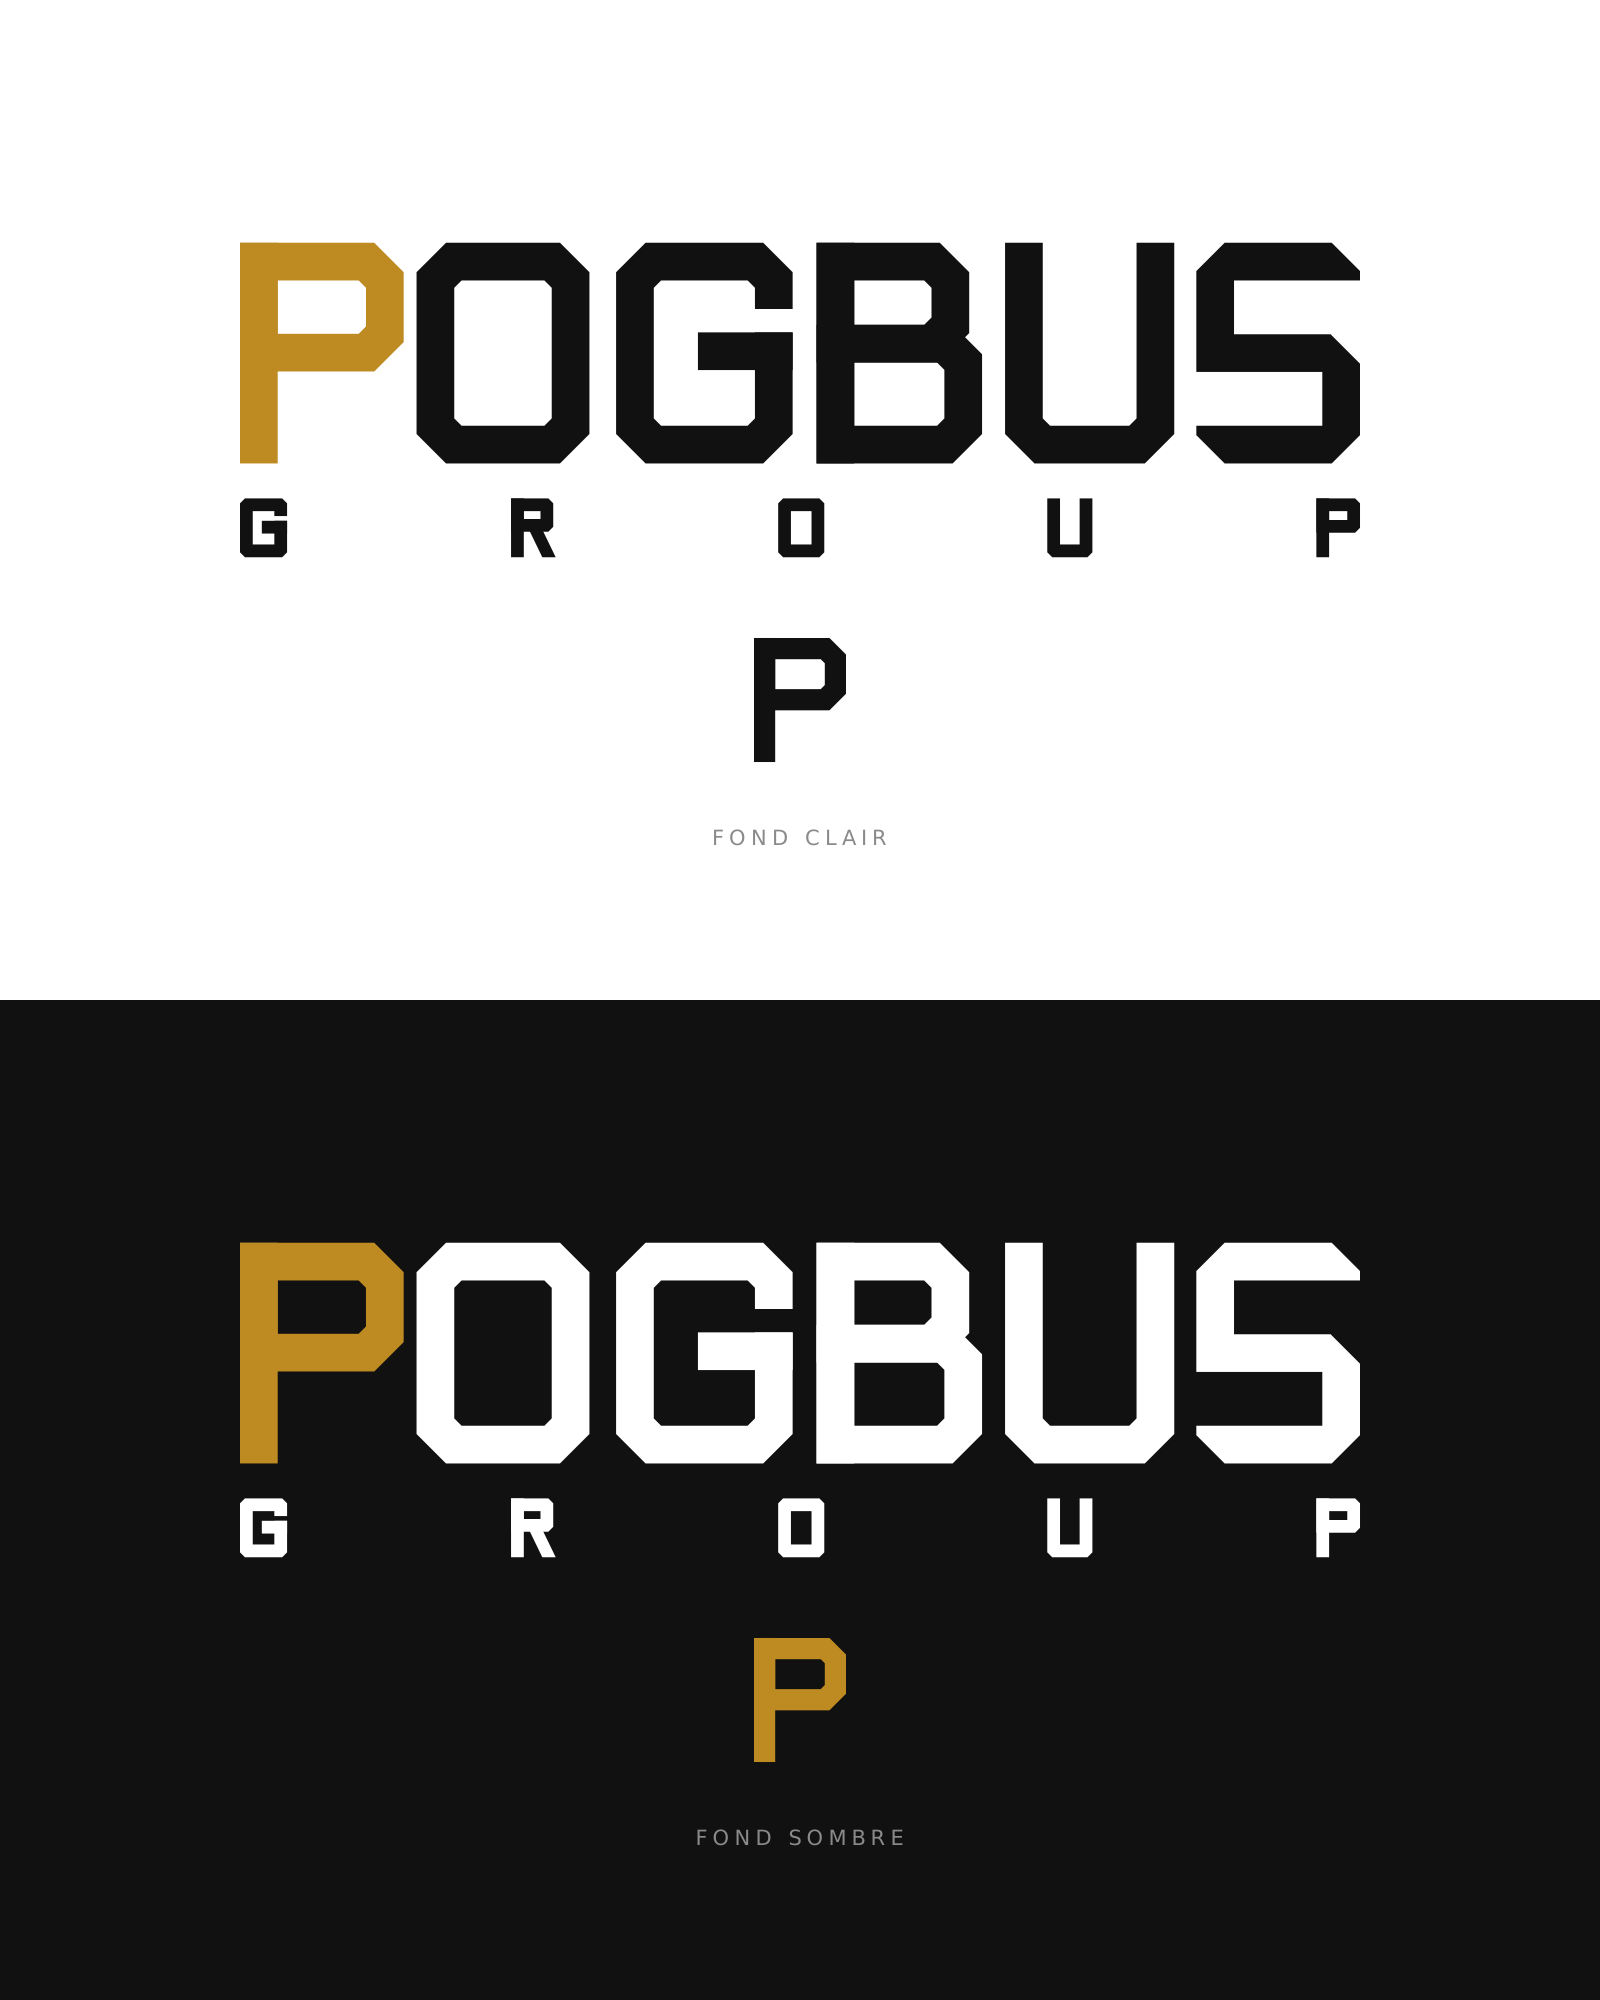
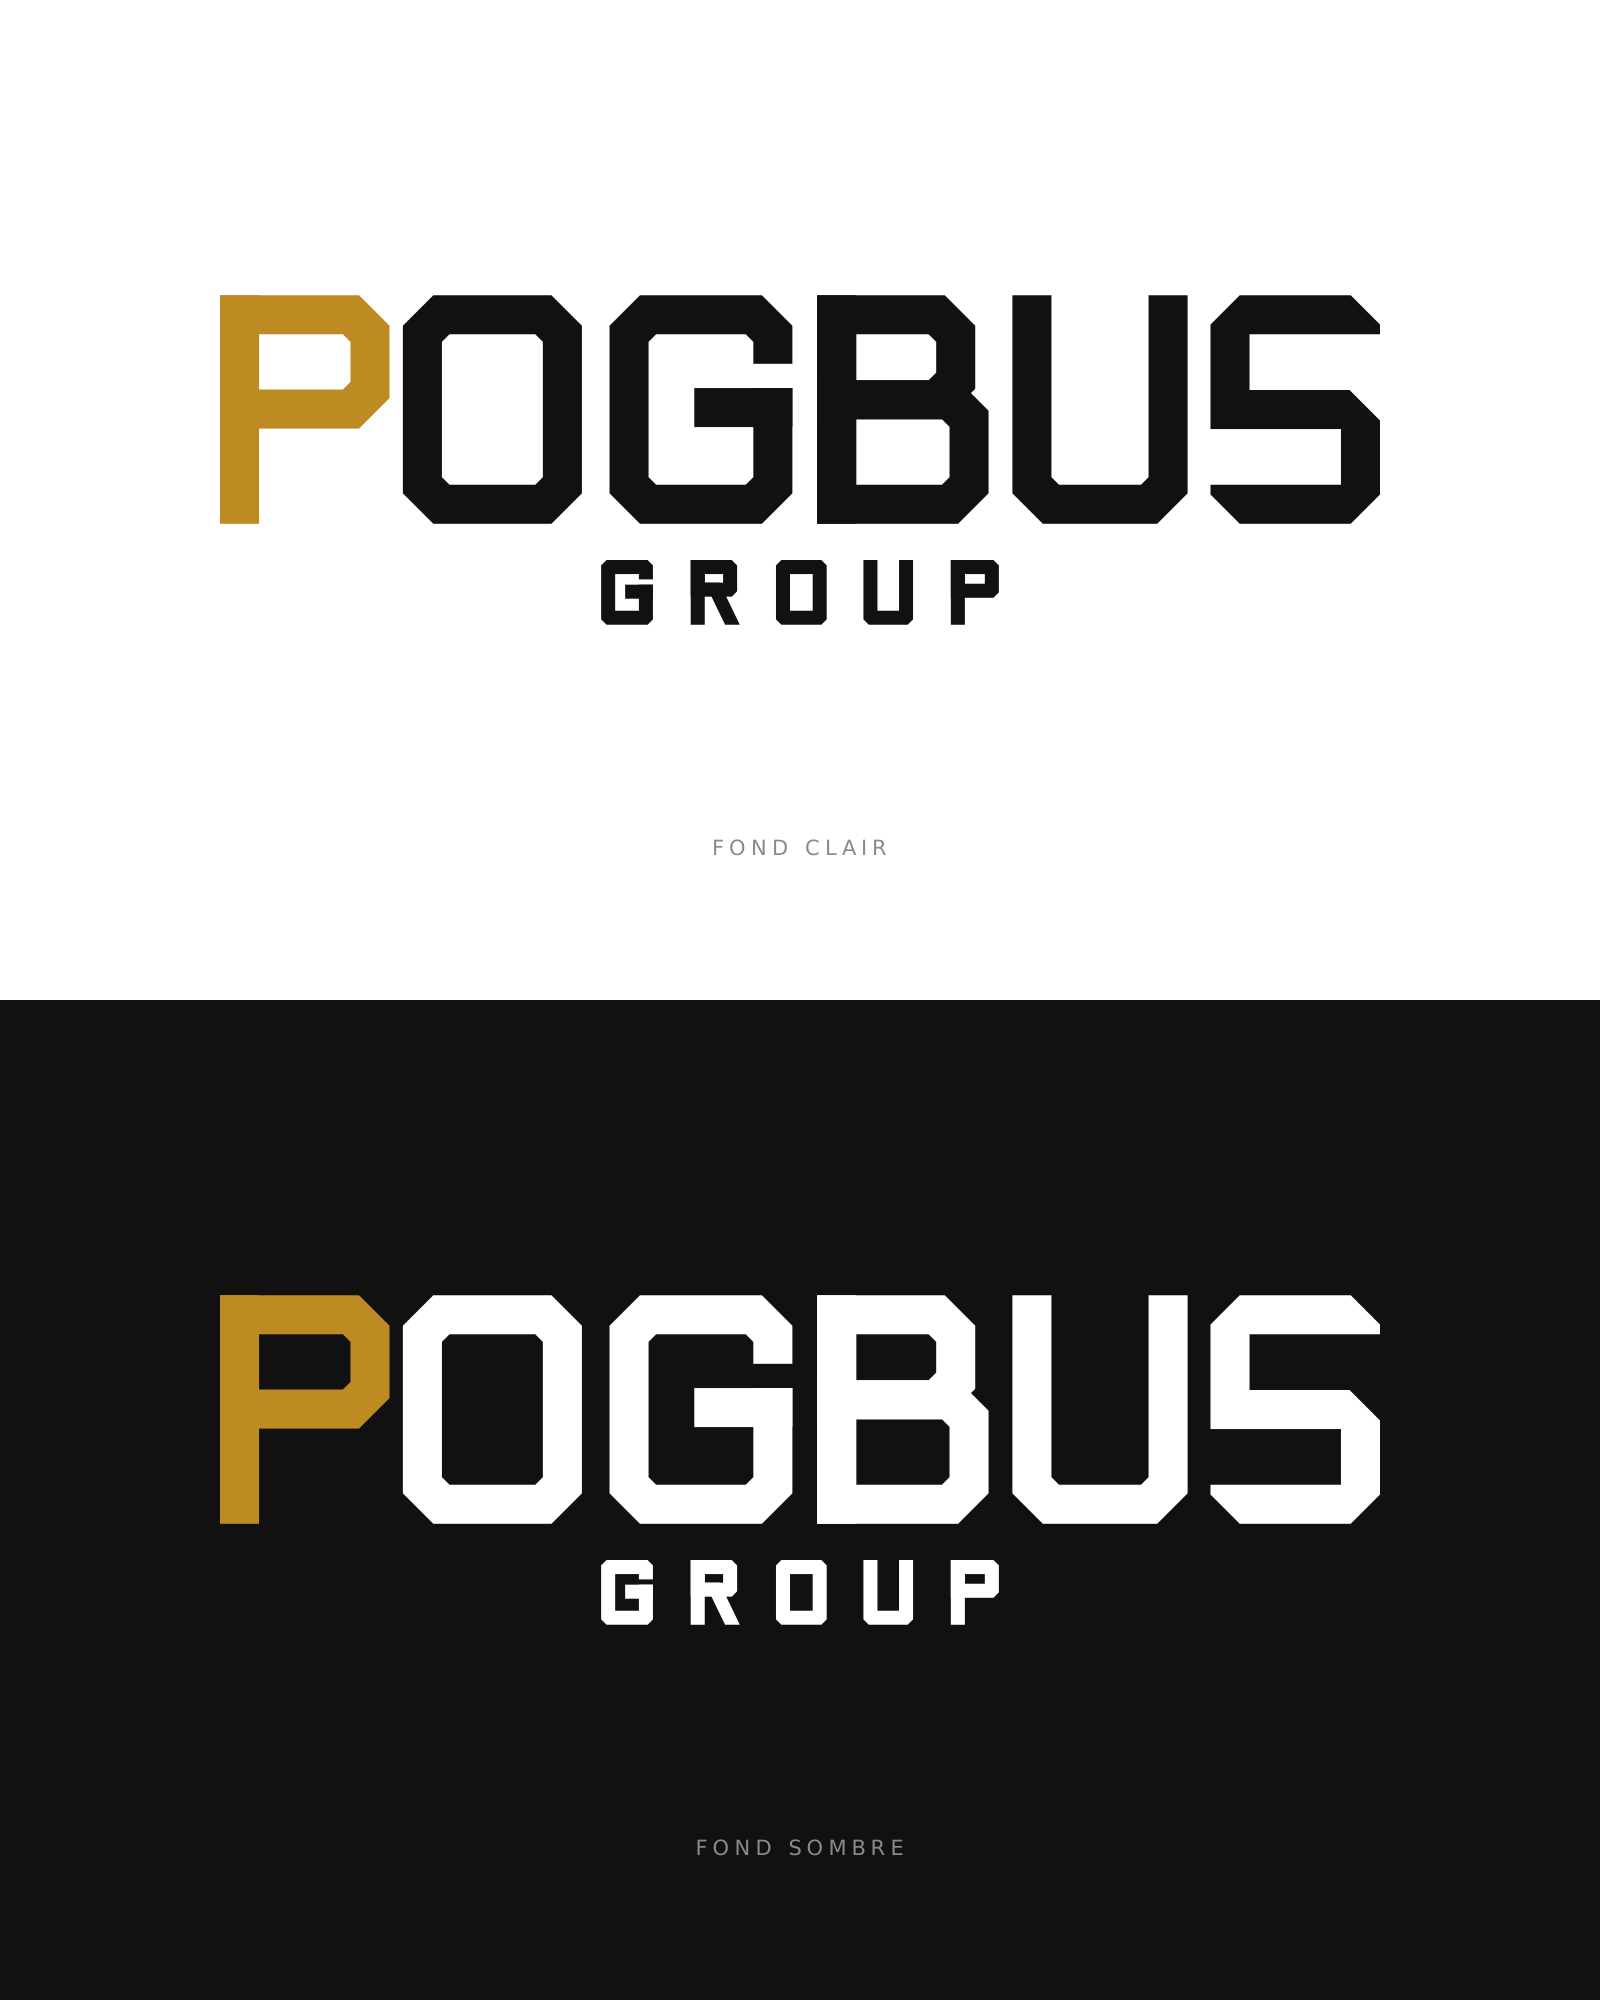
POGBUS GROUP : GROUP resserré et centré, P isolé retiré de la planche
Retour client sur la première version : le mot GROUP était étiré sur
toute la largeur de POGBUS, ce qui le rendait mou et illisible en petit.

- interlettrage de GROUP fixé à 7 modules au lieu d'un calcul qui
  l'étalait sur la largeur du mot ; hauteur portée de 3,2 à 3,4 modules
  pour compenser la perte de masse
- bloc GROUP centré sous POGBUS au lieu d'être calé à gauche
- le symbole isolé est retiré de la planche de présentation ; les
  fichiers du symbole seul restent livrés pour l'avatar et le favicon

Vérifié en image : le logo complet reste lisible jusqu'à 70 px de large,
contre une bouillie à la même taille avant le resserrement.

Claude-Session: https://claude.ai/code/session_01X8pXWXamyLubBoXiHNJevR

Changed region(s): [[0.125, 0.62, 0.875, 0.93], [0.125, 0.124, 0.875, 0.434]]

diff --git a/pogbus/src/final.py b/pogbus/src/final.py
@@ -16,7 +16,7 @@ NOIR = "#111111"
 BLANC = "#FFFFFF"
 
 S_MOT, C_MOT, APPRO = 2.05, 1.60, 1.45
-CAP_BASE, ECART_BASE = 3.2, 1.9
+CAP_BASE, ECART_BASE, APPRO_BASE = 3.4, 1.9, 7.0
 
 
 def _lettre(ch, x, couleur, accent=None):
@@ -47,12 +47,12 @@ def logo(couleur=NOIR, accent=OR, baseline=True):
             x += w
     larg, haut = x, H
     if baseline:
+        # GROUP : interlettrage fixe et mesuré, bloc centré sous POGBUS
         kb = CAP_BASE / H
-        _, w0 = mot("GROUP", s=2.6, c=1.0, appro=0.0)
-        ap = ((larg / kb) - w0) / 4
-        gb, _ = mot("GROUP", s=2.6, c=1.0, appro=ap, couleur=couleur)
+        gb, wb = mot("GROUP", s=2.6, c=1.0, appro=APPRO_BASE, couleur=couleur)
+        dx = (larg - wb * kb) / 2
         y = H + ECART_BASE
-        parts.append(f'<g transform="translate(0 {y * U:.3f}) scale({kb:.5f})">{gb}</g>')
+        parts.append(f'<g transform="translate({dx * U:.3f} {y * U:.3f}) scale({kb:.5f})">{gb}</g>')
         haut = y + CAP_BASE
     return "".join(parts), larg, haut
 

diff --git a/pogbus/src/presentation.py b/pogbus/src/presentation.py
@@ -18,10 +18,8 @@ def planche():
          f'<rect y="{MI}" width="{L}" height="{MI}" fill="{NOIR}"/>']
     for haut, corps, fond_txt in ((0, NOIR, "#8A8A8A"), (MI, BLANC, "#8A8A8A")):
         g, lg, ht = logo(corps, OR)
-        p.append(placer(g, lg, ht, L / 2, haut + MI * 0.40, 1120))
-        sy, lgs, hts = symbole(OR if corps == BLANC else NOIR)
-        p.append(placer(sy, lgs, hts, L / 2, haut + MI * 0.70, 92))
-        p.append(f'<text x="{L/2}" y="{haut + MI * 0.845:.0f}" text-anchor="middle" '
+        p.append(placer(g, lg, ht, L / 2, haut + MI * 0.46, 1160))
+        p.append(f'<text x="{L/2}" y="{haut + MI * 0.855:.0f}" text-anchor="middle" '
                  f'font-family="DejaVu Sans" font-size="21" letter-spacing="5" '
                  f'fill="{fond_txt}">{"FOND CLAIR" if corps == NOIR else "FOND SOMBRE"}</text>')
     return f'<svg xmlns="http://www.w3.org/2000/svg" viewBox="0 0 {L} {Ht}">' + "".join(p) + "</svg>"
